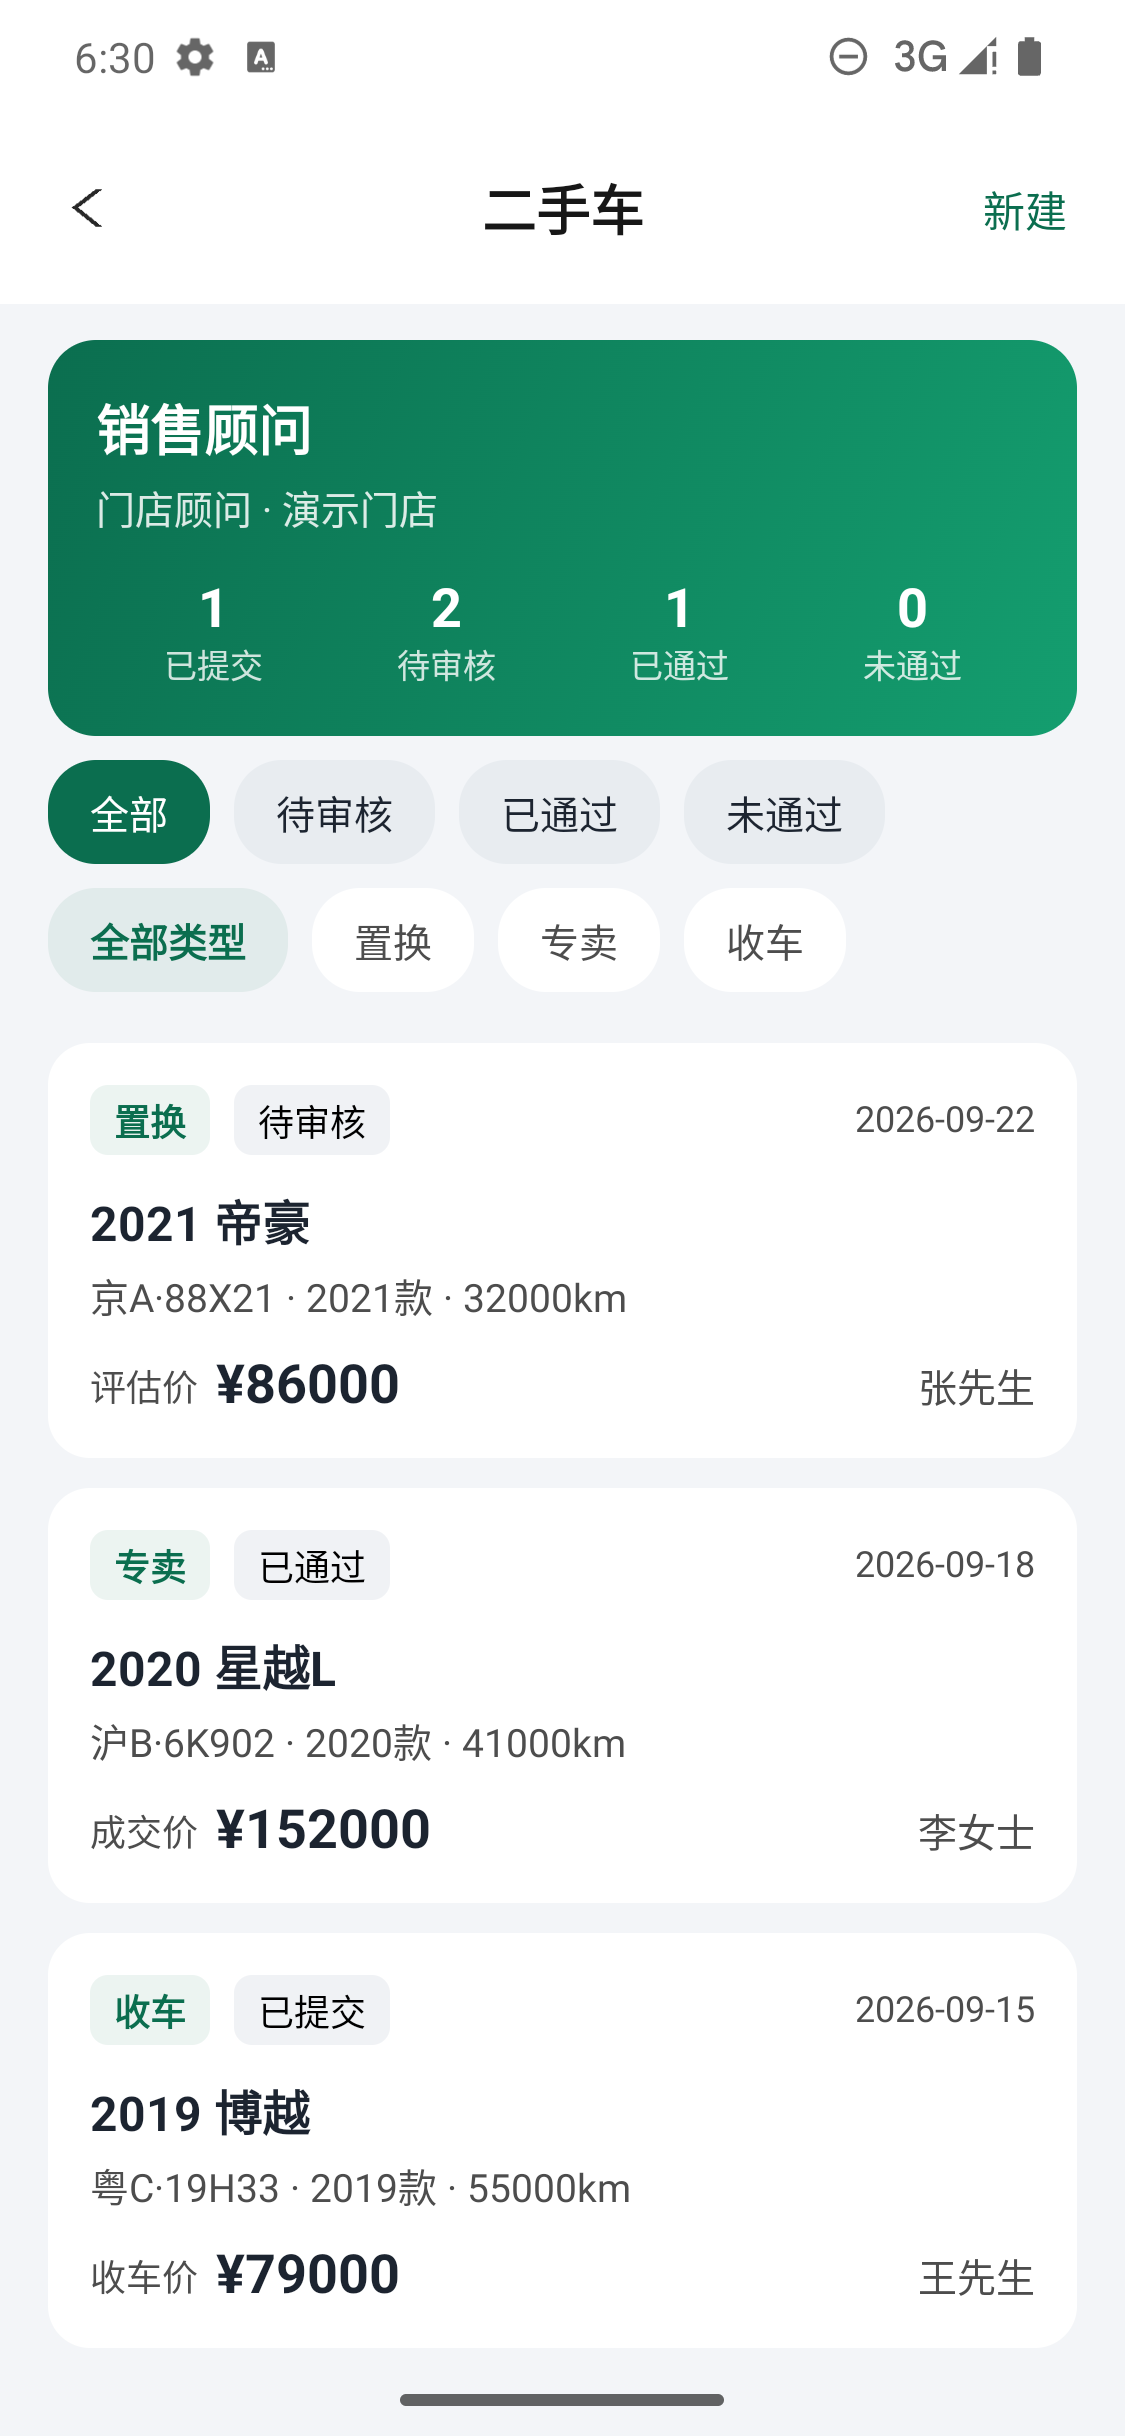
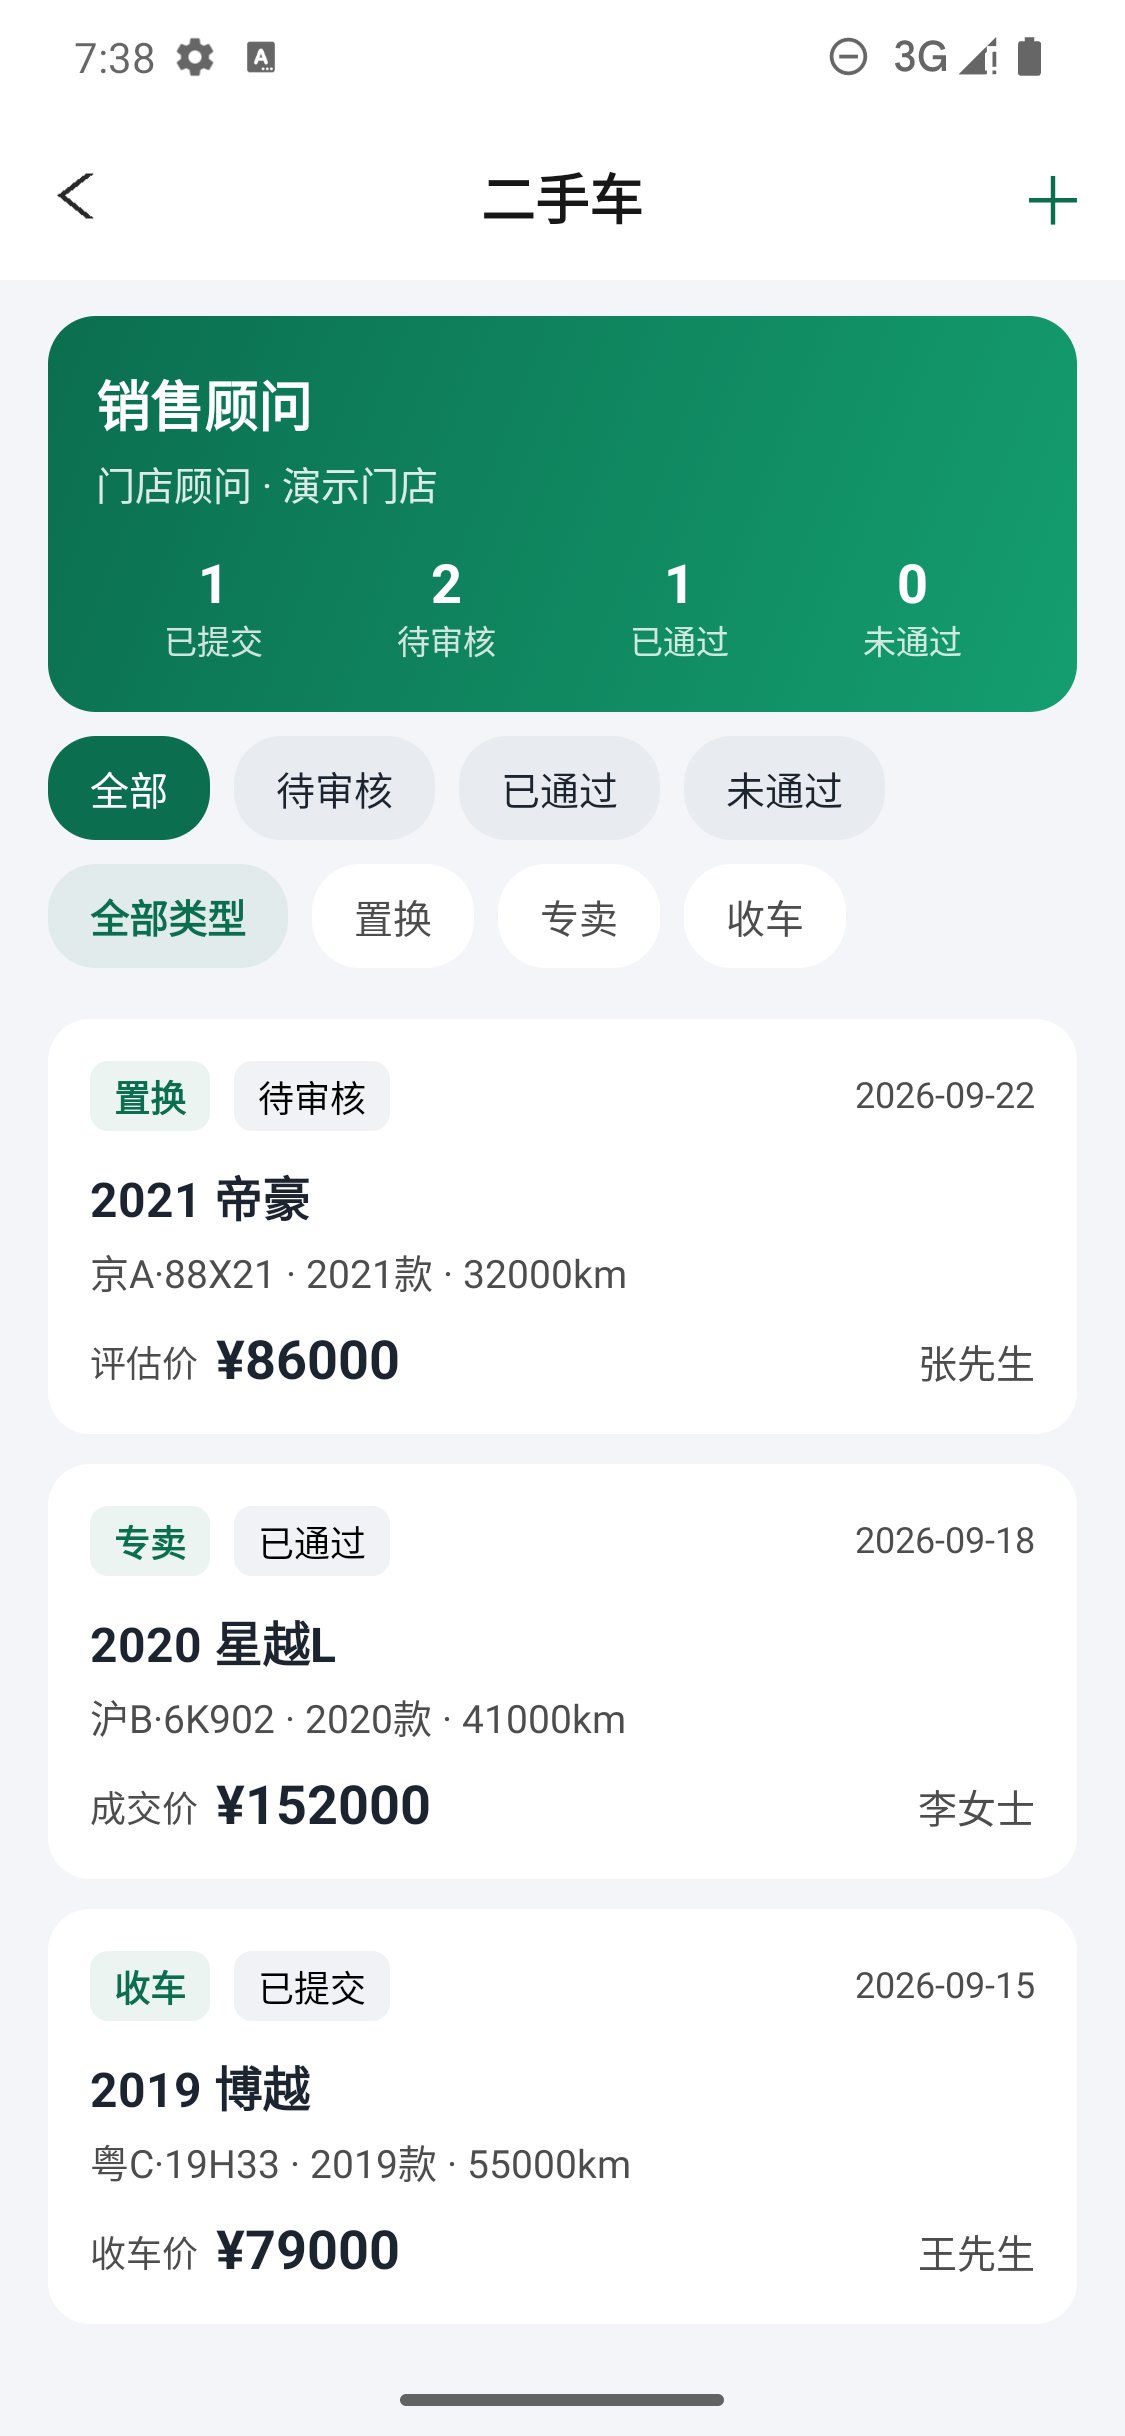
feat(parity): align used_car AppNavBar; refresh near-miss evidence
Switch used-car list to 56dp FlutterFeatureTopBar with add action; keep
search/strategy/analytics gates honest while Flutter used_car SoT remains
login/ANR blocked.

diff --git a/composeApp/src/commonMain/kotlin/com.example.my_kmp_project/feature/home/HomeRouteHost.kt b/composeApp/src/commonMain/kotlin/com.example.my_kmp_project/feature/home/HomeRouteHost.kt
@@ -649,11 +649,16 @@ private fun ClubScreen(onBack: () -> Unit, onJoin: () -> Unit = {}) {
 
 /** Flutter `AppNavBar` — 56.dp toolbar (not M3 64.dp MineTopBar). */
 @Composable
-internal fun FlutterFeatureTopBar(title: String, onBack: () -> Unit) {
+internal fun FlutterFeatureTopBar(
+    title: String,
+    onBack: () -> Unit,
+    containerColor: Color = DemoColors.PageBg,
+    actions: (@Composable () -> Unit)? = null,
+) {
     Column(
         modifier = Modifier
             .fillMaxWidth()
-            .background(DemoColors.PageBg)
+            .background(containerColor)
             .statusBarsPadding(),
     ) {
         Row(
@@ -680,7 +685,16 @@ internal fun FlutterFeatureTopBar(title: String, onBack: () -> Unit) {
                 textAlign = TextAlign.Center,
                 modifier = Modifier.weight(1f),
             )
-            Spacer(modifier = Modifier.size(48.dp))
+            if (actions != null) {
+                Box(
+                    modifier = Modifier.size(48.dp),
+                    contentAlignment = Alignment.Center,
+                ) {
+                    actions()
+                }
+            } else {
+                Spacer(modifier = Modifier.size(48.dp))
+            }
         }
     }
 }
@@ -2201,14 +2215,18 @@ private fun UsedCarListScreen(
 
     ReportMainTabRoot(isRoot = false)
     Column(Modifier.fillMaxSize().background(bg)) {
-        MineTopBar(
+        // Flutter UsedCarListPage AppNavBar (56.dp) + add_circle_outline action.
+        FlutterFeatureTopBar(
             title = "二手车",
             onBack = onBack,
             containerColor = Color.White,
             actions = {
-                TextButton(onClick = onCreate) {
-                    Text("新建", color = accent)
-                }
+                Text(
+                    text = "＋",
+                    color = accent,
+                    fontSize = 22.sp,
+                    modifier = Modifier.clickable(onClick = onCreate),
+                )
             },
         )
         LazyColumn(contentPadding = PaddingValues(bottom = 24.dp)) {

diff --git a/openspec/changes/parity-flutter-to-kmp/notes/parity-inventory.md b/openspec/changes/parity-flutter-to-kmp/notes/parity-inventory.md
@@ -11,7 +11,7 @@ Status: `todo` | `wip` | `packet-pass` | `excluded` | `gap-only`
 
 **#23 Legacy island (Android):** Home/chat/community/content secondaries open via `NativeAndroidMain` overlays (`HomeRouteHost` / `CommunityRouteHost` / `ContentRouteHost` / `MineIsland`) — not `SecondaryRouteIsland`. `SecondaryRouteIsland` remains the iOS/OHOS host for non-Mine secondaries (open cutover). Do not delete the island until iOS/OHOS native hosts exist.
 
-**#24 Closeout (partial):** Android PASS — shell/auth/all_services/club/live_commerce/life_service/ledger/new_car_follow. Still wip — search≈2.88, strategy≈2.94, hot_rank≈2.19, analytics≈2.18, check_in/learning≈3.7, after_sales≈5.9, dubbing≈6.5, used_car≈10 (Flutter auth). Chat/community/mine/media gates not re-run this batch. Platform gaps unchanged.
+**#24 Closeout (partial):** Android PASS — shell/auth/all_services/club/live_commerce/life_service/ledger/new_car_follow. Still wip — search≈2.88, strategy≈2.90, hot_rank≈2.19, analytics≈2.18, check_in/learning≈3.7, after_sales≈5.9, dubbing≈6.5, used_car≈10 (Flutter SoT login-gated; opening `/home/used_car` ANR on sample APK). Chat/community/mine/media gates not re-run this batch. Platform gaps unchanged.
 
 
 ## GitHub tickets (synced)
@@ -73,9 +73,9 @@ Parent spec: #1
 | `/home/learning_report` | home-learning | native-cutover | wip | gate FAIL mse=3.7506 — `home/Android/home_learning_report.diff.json` |
 | `/home/check_in_mall` | home-checkin | native-cutover | wip | gate FAIL mse=3.734 — `home/Android/home_check_in_mall.diff.json` |
 | `/home/dubbing_feed` | home-dubbing | native-cutover | wip | gate FAIL mse=6.4712 — `home/Android/home_dubbing_feed.diff.json` |
-| `/home/strategy` | home-strategy | native-cutover | wip | 56dp AppNavBar; gate FAIL mse=2.9364 — `home/Android/home_strategy.diff.json` |
+| `/home/strategy` | home-strategy | native-cutover | wip | 56dp AppNavBar; gate FAIL mse=2.895 — `home/Android/home_strategy.diff.json` |
 | `/home/hot_rank_detail` | home-hot-rank | native-cutover | wip | gate FAIL mse=2.1854 — `home/Android/home_hot_rank_detail.diff.json` |
-| `/home/used_car` (+ detail/create) | home-used-car | native-cutover | wip | Flutter SoT often login-gated; gate FAIL mse=10.0942 — `home/Android/home_used_car.diff.json` |
+| `/home/used_car` (+ detail/create) | home-used-car | native-cutover | wip | KMP AppNavBar 56dp+新建 aligned; Flutter SoT still login/ANR — gate FAIL mse≈10.2 vs login SoT — `home/Android/home_used_car.diff.json` |
 | `/home/ledger` (+ detail) | home-ledger | native-cutover | pass | gate PASS mse=1.3707 — `home/Android/home_ledger.diff.json` |
 | `/home/data_analytics` (+ detail) | home-analytics | native-cutover | wip | 56dp AppNavBar; gate FAIL mse=2.1798 — `home/Android/home_data_analytics.diff.json` |
 | `/home/life_service` | home-life | native-cutover | pass | gate PASS mse=1.998 — `home/Android/home_life_service.diff.json` |
